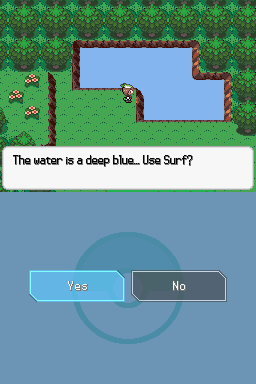
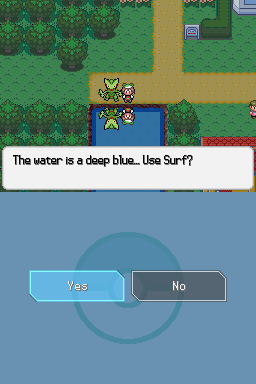
ow location map

diff --git a/PNEO/arm9/source/navAppMap.cpp b/PNEO/arm9/source/navAppMap.cpp
@@ -71,24 +71,24 @@ namespace IO {
         if( !SAVE::SAV.getActiveFile( ).m_appearance ) {
             tileCnt
                 = IO::loadSprite( "NV/player0", SPR_NAV_APP_RSV_SUB + 1, SPR_NAV_APP_RSV1_PAL_SUB,
-                                  tileCnt, _playerX - 8, _playerY + MAP_TOP_Y - 8, 16, 16, false,
+                                  tileCnt, _playerX - 8, _playerY + _mapTopY - 8, 16, 16, false,
                                   false, false, OBJPRIORITY_3, p_bottom );
         } else {
             tileCnt
                 = IO::loadSprite( "NV/player1", SPR_NAV_APP_RSV_SUB + 1, SPR_NAV_APP_RSV1_PAL_SUB,
-                                  tileCnt, _playerX - 8, _playerY + MAP_TOP_Y - 8, 16, 16, false,
+                                  tileCnt, _playerX - 8, _playerY + _mapTopY - 8, 16, 16, false,
                                   false, false, OBJPRIORITY_3, p_bottom );
         }
 
         // load cursor icon
         tileCnt = IO::loadSprite( "BX/box_arrow", SPR_NAV_APP_RSV_SUB, SPR_NAV_APP_RSV2_PAL_SUB,
-                                  tileCnt, _cursorX, _cursorY + MAP_TOP_Y - 14, 16, 16, false,
-                                  false, false, OBJPRIORITY_3, true );
+                                  tileCnt, _cursorX, _cursorY + _mapTopY - 14, 16, 16, false, false,
+                                  false, OBJPRIORITY_3, true );
 
         // load bg
-
-        FS::readPictureData( ptr3, "nitro:/PICS/NAV_APP/", "app01bg", 192 * 2, 192 * 256,
-                             p_bottom );
+        // use last OW map as dafault
+        snprintf( buffer, TMP_BUFFER_SIZE, "map%hhu", _OWMap );
+        FS::readPictureData( ptr3, "nitro:/PICS/NAV_APP/", buffer, 192 * 2, 192 * 256, p_bottom );
         pal[ 0 ] = IO::BLACK;
 
         if( _cursorLocationId ) {
@@ -111,20 +111,50 @@ namespace IO {
                 || !MAP::MAP_LOCATIONS.m_good ) {
                 FS::loadLocationData( SAVE::SAV.getActiveFile( ).m_currentMap );
             }
-
             // player is in OW
-            _playerX = SAVE::SAV.getActiveFile( ).m_player.m_pos.m_posX / MAP_IMG_RES;
-            _playerY = SAVE::SAV.getActiveFile( ).m_player.m_pos.m_posY / MAP_IMG_RES;
+            _playerX = SAVE::SAV.getActiveFile( ).m_player.m_pos.m_posX
+                       / MAP::MAP_LOCATIONS.m_mapImageRes;
+            _playerY = SAVE::SAV.getActiveFile( ).m_player.m_pos.m_posY
+                       / MAP::MAP_LOCATIONS.m_mapImageRes;
+            _OWMap = SAVE::SAV.getActiveFile( ).m_currentMap;
+
+            _mapTopX = MAP::MAP_LOCATIONS.m_mapImageShiftX;
+            _mapTopY = MAP::MAP_LOCATIONS.m_mapImageShiftY;
+            _mapBotX = _mapTopX
+                       + ( MAP::mapLocation::MAP_LOCATION_RES / MAP::MAP_LOCATIONS.m_mapImageRes )
+                             * ( MAP::MAP_LOCATIONS.m_owMapSizeX );
+            _mapBotY = _mapTopY
+                       + ( MAP::mapLocation::MAP_LOCATION_RES / MAP::MAP_LOCATIONS.m_mapImageRes )
+                             * ( MAP::MAP_LOCATIONS.m_owMapSizeY + 1 );
         } else if( FSDATA.isOWMap( SAVE::SAV.getActiveFile( ).m_lastOWPos.first ) ) {
             if( MAP::MAP_LOCATIONS.m_bank != SAVE::SAV.getActiveFile( ).m_lastOWPos.first
                 || !MAP::MAP_LOCATIONS.m_good ) {
                 FS::loadLocationData( SAVE::SAV.getActiveFile( ).m_lastOWPos.first );
             }
-            _playerX = SAVE::SAV.getActiveFile( ).m_lastOWPos.second.m_posX / MAP_IMG_RES;
-            _playerY = SAVE::SAV.getActiveFile( ).m_lastOWPos.second.m_posY / MAP_IMG_RES;
+
+            _playerX = SAVE::SAV.getActiveFile( ).m_lastOWPos.second.m_posX
+                       / MAP::MAP_LOCATIONS.m_mapImageRes;
+            _playerY = SAVE::SAV.getActiveFile( ).m_lastOWPos.second.m_posY
+                       / MAP::MAP_LOCATIONS.m_mapImageRes;
+            _OWMap = SAVE::SAV.getActiveFile( ).m_lastOWPos.first;
+
+            _mapTopX = MAP::MAP_LOCATIONS.m_mapImageShiftX;
+            _mapTopY = MAP::MAP_LOCATIONS.m_mapImageShiftY;
+            _mapBotX = _mapTopX
+                       + ( MAP::mapLocation::MAP_LOCATION_RES / MAP::MAP_LOCATIONS.m_mapImageRes )
+                             * ( MAP::MAP_LOCATIONS.m_owMapSizeX );
+            _mapBotY = _mapTopY
+                       + ( MAP::mapLocation::MAP_LOCATION_RES / MAP::MAP_LOCATIONS.m_mapImageRes )
+                             * ( MAP::MAP_LOCATIONS.m_owMapSizeY + 1 );
         } else {
             _playerX = 0;
             _playerY = 0;
+            _OWMap   = 0;
+
+            _mapTopX = 0;
+            _mapTopY = 0;
+            _mapBotX = 0;
+            _mapBotY = 0;
         }
     }
 
@@ -150,7 +180,7 @@ namespace IO {
         // update player sprite
 
         oam[ SPR_NAV_APP_RSV_SUB + 1 ].x = _playerX - 8;
-        oam[ SPR_NAV_APP_RSV_SUB + 1 ].y = _playerY + MAP_TOP_Y - 8;
+        oam[ SPR_NAV_APP_RSV_SUB + 1 ].y = _playerY + _mapTopY - 8;
         if( change ) {
             locChange |= ( _playerX != _cursorX || _playerY != _cursorY );
             _cursorX = _playerX;
@@ -172,19 +202,18 @@ namespace IO {
         }
 
         // check for (touch) input
-
-        if( touch.px >= MAP_TOP_X && touch.px <= MAP_BOT_X && touch.py >= MAP_TOP_Y
-            && touch.py <= MAP_BOT_Y ) {
+        if( touch.px > _mapTopX && touch.px < _mapBotX && touch.py > _mapTopY
+            && touch.py < _mapBotY ) {
             // move cursor
             locChange |= ( touch.px != _cursorX || touch.py != _cursorY );
 
             _cursorX = touch.px;
-            _cursorY = touch.py - MAP_TOP_Y;
+            _cursorY = touch.py - _mapTopY;
         }
 
         if( locChange ) {
             oam[ SPR_NAV_APP_RSV_SUB ].x = _cursorX;
-            oam[ SPR_NAV_APP_RSV_SUB ].y = _cursorY + MAP_TOP_Y - 14;
+            oam[ SPR_NAV_APP_RSV_SUB ].y = _cursorY + _mapTopY - 14;
 
             computeCursorLocationId( );
             if( _cursorLocationId != oldl ) {

diff --git a/PNEO/arm9/include/map/mapDefines.h b/PNEO/arm9/include/map/mapDefines.h
@@ -54,6 +54,9 @@ namespace MAP {
         bool m_good; // data has been read from fs
         u8   m_owMapSizeX;
         u8   m_owMapSizeY;
+        u8   m_mapImageRes    = 4;
+        u8   m_mapImageShiftX = 0;
+        u8   m_mapImageShiftY = 0;
 
         u16 m_defaultLocation; // location to return for out-of-bounds; e.g. L_HOENN
 
@@ -365,9 +368,7 @@ namespace MAP {
         u8 m_hasDiveMap : 1 = false; // stores whether there is a seperate map for hm dive
         u8 : 6;
         u16 m_defaultLocation = 0; // default location for this bank (unused)
-        u8  m_mapMug          = 0; // preview image shown when switching to this bank (0
-                                   // for none)
-        u8 : 8;
+        u16 : 16;
 
         constexpr bankInfo( u8 p_sizeX = 0, u8 p_sizeY = 0, u8 p_mapMode = MAPMODE_COMBINED,
                             bool p_isOWMap = false )

diff --git a/PNEO/arm9/include/io/navApp.h b/PNEO/arm9/include/io/navApp.h
@@ -54,16 +54,13 @@ namespace IO {
     extern navApp*              CUR_NAV_APP;
 
     class mapNavApp : public navApp {
-        static constexpr u16 MAP_TOP_X = 4;
-        static constexpr u16 MAP_TOP_Y = 36;
-        static constexpr u16 MAP_BOT_X = 219;
-        static constexpr u16 MAP_BOT_Y = 155;
+        u16           _cursorX, _cursorY;
+        u16           _cursorLocationId;
+        u16           _playerX, _playerY;
+        u8            _OWMap;
+        MAP::bankInfo _OWbankInfo;
 
-        static constexpr u16 MAP_IMG_RES = 4;
-
-        u16 _cursorX, _cursorY;
-        u16 _cursorLocationId;
-        u16 _playerX, _playerY;
+        u8 _mapTopX, _mapTopY, _mapBotX, _mapBotY;
 
         void computePlayerPosition( );
         void computeCursorLocationId( );

diff --git a/PNEO/arm9/source/message.cpp b/PNEO/arm9/source/message.cpp
@@ -422,7 +422,10 @@ namespace IO {
 
         std::memset( TEXT_BUF, 0, sizeof( TEXT_BUF ) );
         if( FS::frameForLocation( p_newLocation ) == 3 || FS::frameForLocation( p_newLocation ) == 6
-            || FS::frameForLocation( p_newLocation ) == 0 ) {
+            || FS::frameForLocation( p_newLocation ) == 0
+            || FS::frameForLocation( p_newLocation ) == 8
+            || FS::frameForLocation( p_newLocation ) == 9
+            || FS::frameForLocation( p_newLocation ) == 10 ) {
             IO::regularFont->setColor( 1, 1 );
         } else {
             IO::regularFont->setColor( 3, 1 );

diff --git a/PNEO/arm9/source/data.cpp b/PNEO/arm9/source/data.cpp
@@ -187,6 +187,9 @@ namespace FS {
 
         fread( &MAP::MAP_LOCATIONS.m_owMapSizeX, sizeof( u8 ), 1, f );
         fread( &MAP::MAP_LOCATIONS.m_owMapSizeY, sizeof( u8 ), 1, f );
+        fread( &MAP::MAP_LOCATIONS.m_mapImageRes, sizeof( u8 ), 1, f );
+        fread( &MAP::MAP_LOCATIONS.m_mapImageShiftX, sizeof( u8 ), 1, f );
+        fread( &MAP::MAP_LOCATIONS.m_mapImageShiftY, sizeof( u8 ), 1, f );
         fread( &MAP::MAP_LOCATIONS.m_defaultLocation, sizeof( u16 ), 1, f );
 
         MAP::MAP_LOCATIONS.m_locationData.resize( MAP::MAP_LOCATIONS.m_owMapSizeX
